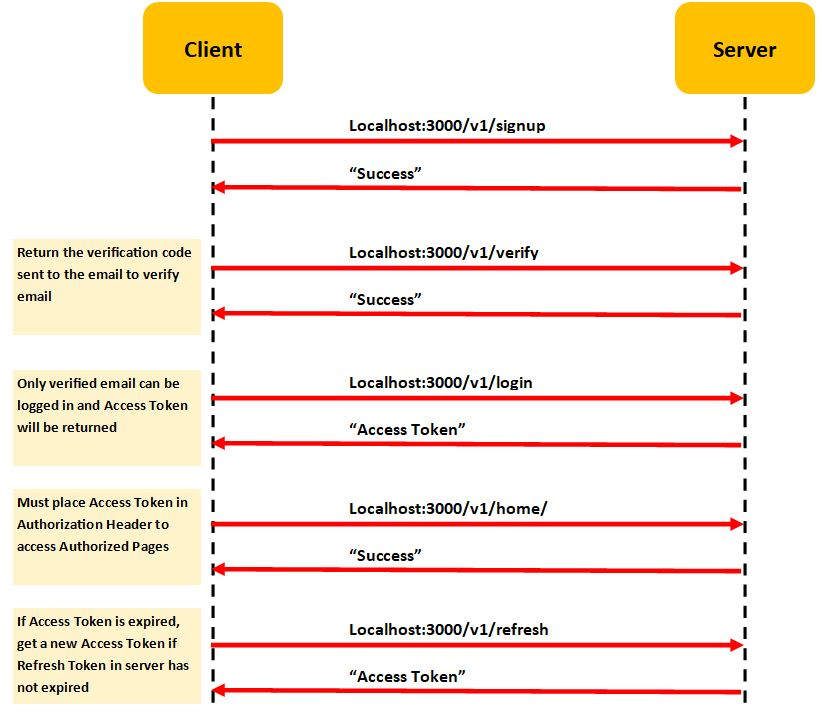
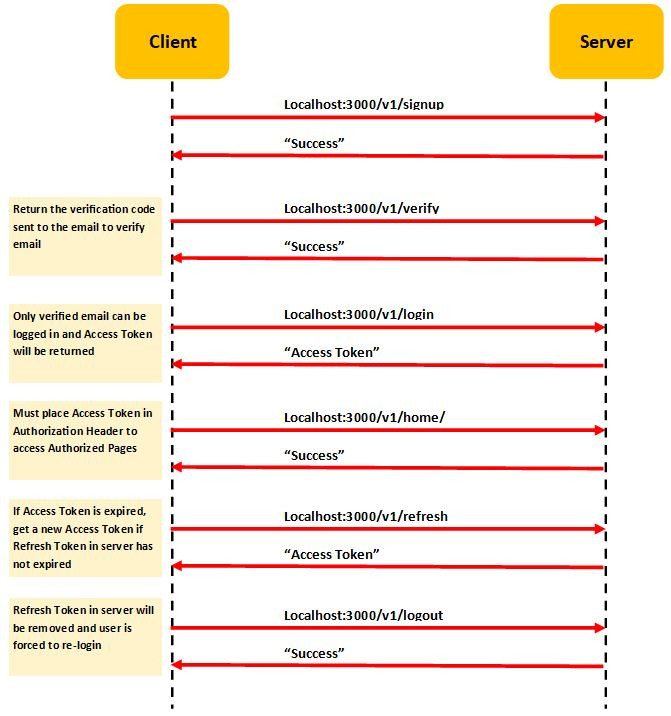
add logout api

Changed region(s): [[0.0, 0.0, 1.0, 0.9846]]

diff --git a/authentication_service/controllers/account_handlers.go b/authentication_service/controllers/account_handlers.go
@@ -188,8 +188,14 @@ func RefreshToken() gin.HandlerFunc {
 			return
 		}
 
-		refreshToken := *foundUser.Refresh_token
-		_, err := helper.ValidateToken(refreshToken)
+		refreshToken := foundUser.Refresh_token
+		if refreshToken == nil {
+			err := helpers.RaiseLoginExpired()
+			c.JSON(err.StatusCode, err.Error())
+			return
+		}
+
+		_, err := helper.ValidateToken(*refreshToken)
 		if err != nil {
 			c.JSON(err.StatusCode, err.Error())
 			return
@@ -202,13 +208,46 @@ func RefreshToken() gin.HandlerFunc {
 			return
 		}
 
-		err = helper.UpdateAllTokens(token, refreshToken, email)
+		err = helper.UpdateAllTokens(token, *refreshToken, email)
 		if err != nil {
 			c.JSON(err.StatusCode, err.Error())
 			return
 		}
 
 		c.JSON(http.StatusOK, token)
+	}
+}
+
+func Logout() gin.HandlerFunc {
+	return func(c *gin.Context) {
+		email_byte, e := ioutil.ReadAll(c.Request.Body)
+		email := string(email_byte)
+		if e != nil {
+			err := helpers.RaiseCannotParseJson()
+			c.JSON(err.StatusCode, err.Error())
+			return
+		}
+
+		foundUser, e := database_service.CurrentDatabaseConnector.GetUser(email)
+		// check whether user exists
+		if e != nil {
+			err := helpers.RaiseWrongLoginCredentials()
+			c.JSON(err.StatusCode, err.Error())
+			return
+		}
+
+		// remove refresh token and force user to login again
+		foundUser.Refresh_token = nil
+
+		e = database_service.CurrentDatabaseConnector.SaveUser(foundUser)
+
+		if e != nil {
+			err := helpers.RaiseCannotSaveUserInDatabase()
+			c.JSON(err.StatusCode, err.Error())
+			return
+		}
+
+		c.JSON(http.StatusOK, "Success")
 	}
 }
 

diff --git a/helpers/error_helper.go b/helpers/error_helper.go
@@ -164,3 +164,10 @@ func RaiseDatabaseError() *RequestError {
 		Err:        errors.New(constants.DATABASE_ERROR),
 	}
 }
+
+func RaiseLoginExpired() *RequestError {
+	return &RequestError{
+		StatusCode: http.StatusInternalServerError,
+		Err:        errors.New(constants.LOGIN_EXPIRED),
+	}
+}

diff --git a/cmd/main.go b/cmd/main.go
@@ -30,6 +30,7 @@ func main() {
 	authorized.POST("/verify", authhandler.Verify())
 	authorized.POST("/login", authhandler.Login())
 	authorized.POST("/refresh", authhandler.RefreshToken())
+	authorized.POST("/logout", authhandler.Logout())
 
 	// require token
 	home := v1.Group("/home")

diff --git a/constants/error_messages.go b/constants/error_messages.go
@@ -22,4 +22,5 @@ const (
 	USER_NOT_IN_DATABASE         string = "User is not in database"
 	CANNOT_SAVE_USER_IN_DATABASE string = "Cannot save user in database"
 	DATABASE_ERROR               string = "Database error"
+	LOGIN_EXPIRED                string = "Please Login again"
 )

diff --git a/authentication_service/README.md b/authentication_service/README.md
@@ -81,12 +81,23 @@ Expected Returns:
 "Access Token"
 ```
 
+#### Logout 
+##### (POST) localhost:3000/v1/logout
+
+Request Body:
+
+```
+"clee051@e.ntu.edu.sg"
+```
+
+Expected Returns:
+
+```
+"Success"
+```
+
 #### Refresh access token
 ##### (POST) localhost:3000/v1/refresh
-
-Request Header:
-
-Token: "Bearer: REFRESH_TOKEN"
 
 Request Body:
 

diff --git a/README.md b/README.md
@@ -35,6 +35,8 @@ go run main.go
 
 ##### (POST) localhost:3000/v1/login
 
+##### (POST) localhost:3000/v1/logout
+
 ##### (POST) localhost:3000/v1/refresh
 
 ##### (GET) localhost:3000/v1/home/
